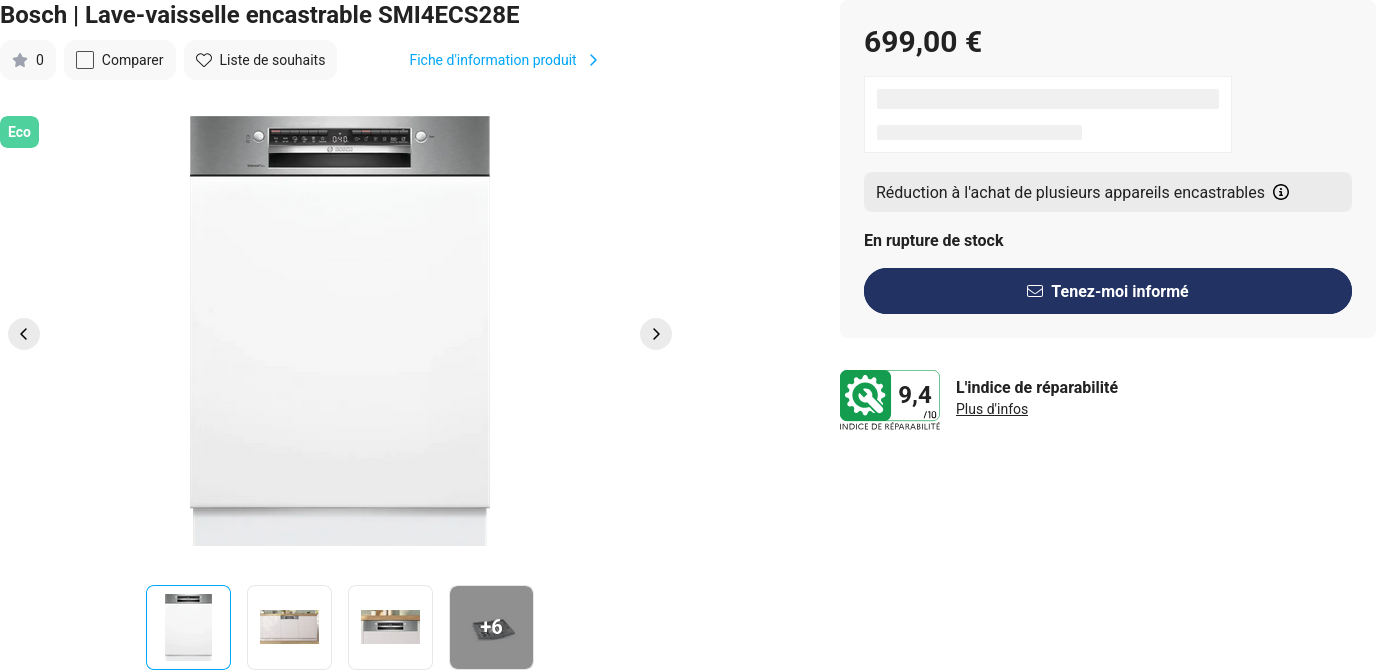
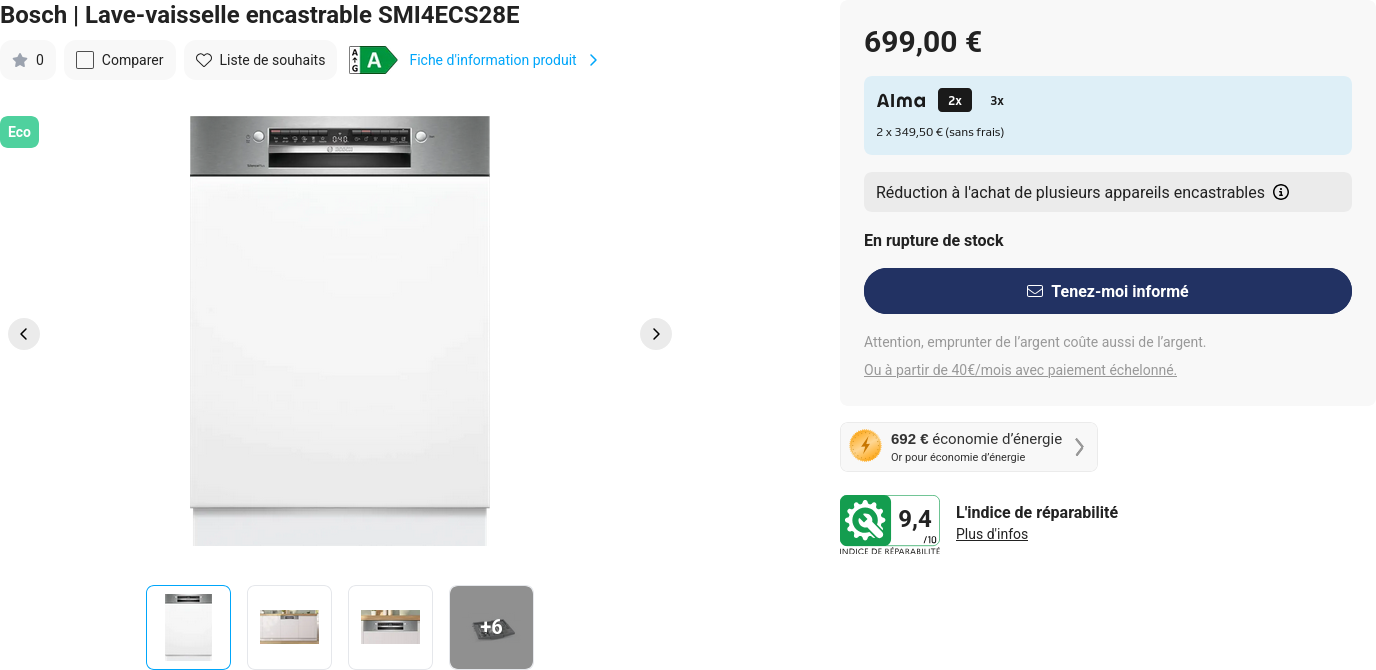
Latest scraping prices: Wed Jul  2 17:28:15 UTC 2025

diff --git a/scrapes/prices/krefel-SMI4ECS28E.md b/scrapes/prices/krefel-SMI4ECS28E.md
@@ -1,10 +1,26 @@
 699,00 €
 
+2x
+
+3x
+
+2 x 349,50 € (sans frais)
+
 Réduction à l'achat de plusieurs appareils encastrables
 
 En rupture de stock
 
 Tenez-moi informé
+
+Attention, emprunter de l’argent coûte aussi de l’argent.
+
+Ou à partir de 40€/mois avec paiement échelonné.
+
+692 €  économie d’énergie
+
+Meilleur pour économie d’énergie Or pour économie d’énergie Argent pour économie d’énergie Bronze pour économie d’énergie Bon rapport prix/efficacité Bon rapport prix/efficacité
+
+Cette action ouvrira l’Outil Économie d’Énergie Youreko.
 
 ### 9,4
 
